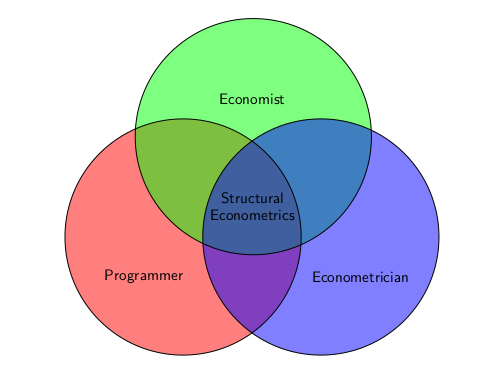
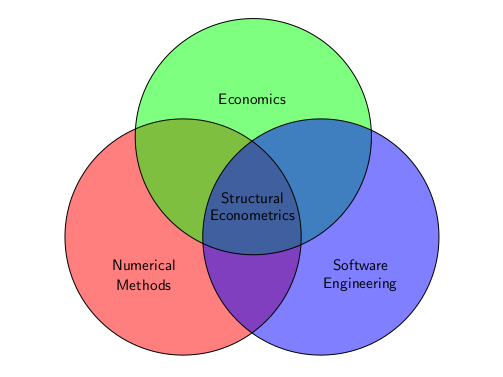
edits

diff --git a/intro_structural_econometrics/images/venn_diagram.tex b/intro_structural_econometrics/images/venn_diagram.tex
@@ -11,10 +11,10 @@
 \usetikzlibrary{arrows,decorations.pathmorphing,backgrounds,positioning,fit,petri}
 \renewcommand*{\familydefault}{\sfdefault}
 
-\tikzset{forestyle/.style = {rectangle, thick, minimum width = 5cm, minimum height = 0.5cm, text width = 4.5cm, outer sep = 1mm},  
+\tikzset{forestyle/.style = {rectangle, thick, minimum width = 5cm, minimum height = 0.5cm, text width = 4.5cm, outer sep = 1mm},
   pre/.style={<-, shorten <=1pt, >=stealth, ultra thick},
   extend/.style={<-,dashed, shorten <=1pt, >=stealth, ultra thick}}
-  
+
 
 
 \def\firstcircle{[name path=firstcircle] (0,0) circle (3cm)}
@@ -28,17 +28,20 @@
 
 \begin{frame}\begin{center}\begin{tikzpicture}
     \begin{scope}[fill opacity=.5, text opacity=1]
-    \fill[red] \firstcircle;  
+    \fill[red] \firstcircle;
     \fill[green]\secondcircle;
     \fill[blue]\thirdcircle;
     \draw \firstcircle node[below,name=A] {};
     \draw \secondcircle node [above,name=B] {};
     \draw \thirdcircle node [below,name=C] {};
-    \node at ($0.4*(B)+0.3*(C)+0.3*(A)$) {Structural}; 
+    \node at ($0.4*(B)+0.3*(C)+0.3*(A)$) {Structural};
     \node at ($0.25*(B)+0.375*(C)+0.375*(A)$) {Econometrics};
-    \path (-1cm,-1cm) node {Programmer}
-    (1.75cm,3.5cm) node {Economist}
-    (4.5cm,-1cm) node {Econometrician};
+    \path
+    (-1cm,-0.7cm) node {Numerical}
+    (-1cm,-1.2cm) node {Methods}
+    (1.75cm,3.5cm) node {Economics}
+    (4.5cm,-0.7cm) node {Software}
+    (4.5cm,-1.2cm) node {Engineering};
     \end{scope}
 \end{tikzpicture}\end{center}\end{frame}
 
